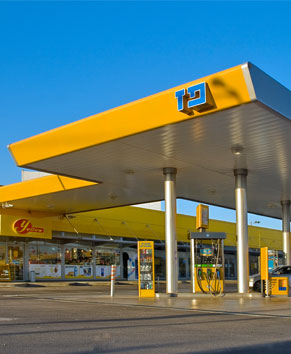
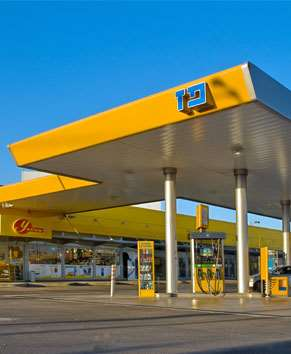
change image file extension

diff --git a/style.css b/style.css
@@ -29,7 +29,7 @@ main {
     color: #72716d;
     font-size: 12px;
     /* temp */
-    background-color: bisque;
+    /* background-color: bisque; */
 }
 
 h1 {
@@ -114,7 +114,12 @@ a:hover {
     width: 292px;
     border-radius: 0 0 25px 0;
 }
-
+.lower-img {
+    border: 1px solid #333;
+    margin-top: 18px;
+    padding: 0 24px;
+    height: 216px;
+}
 .read-more {
     display: block;
     text-align: left;
@@ -122,6 +127,9 @@ a:hover {
     width: 100%;
 }
 
+.yellow {
+    color: #F8B713;
+}
 /* HOME PAGE  END */
 
 /* 
